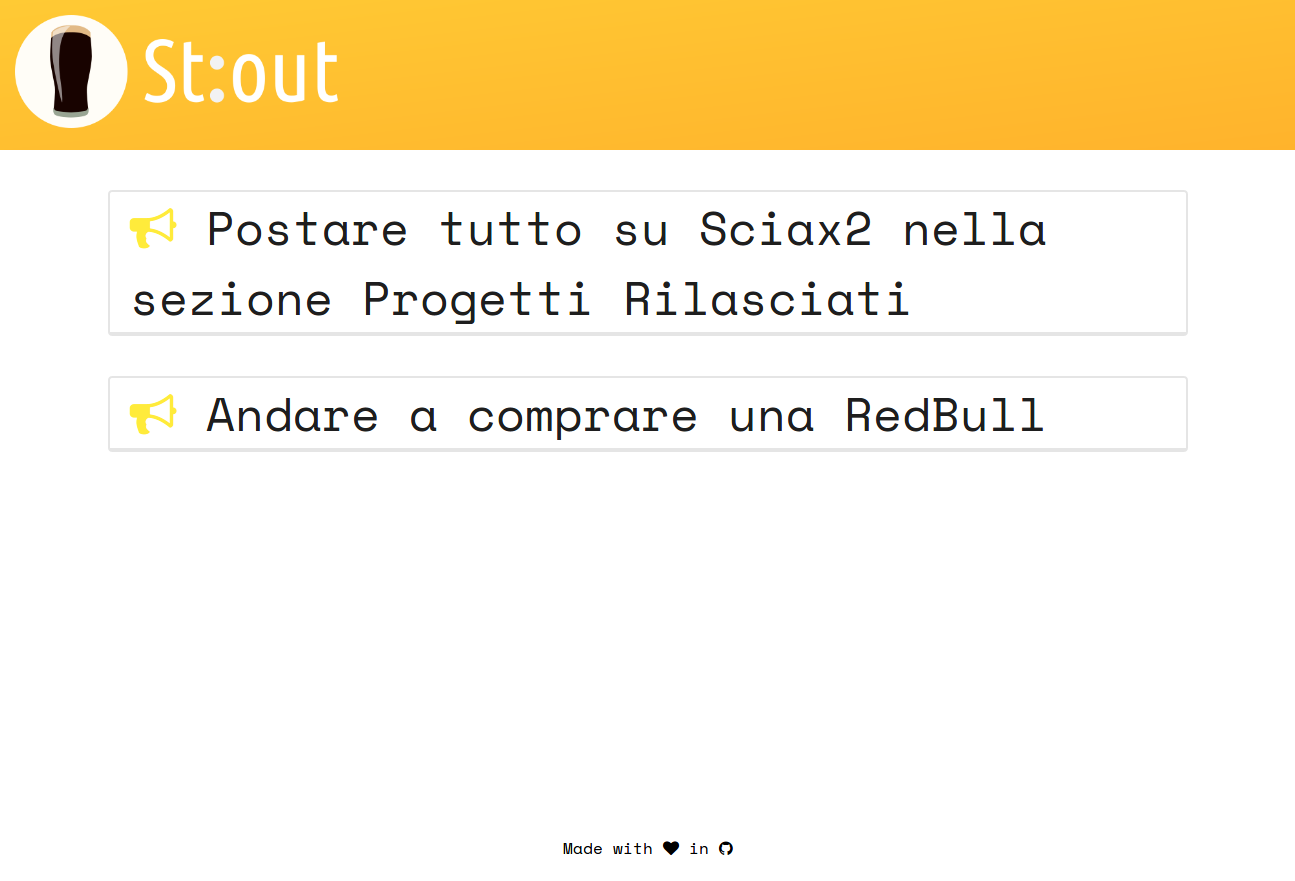
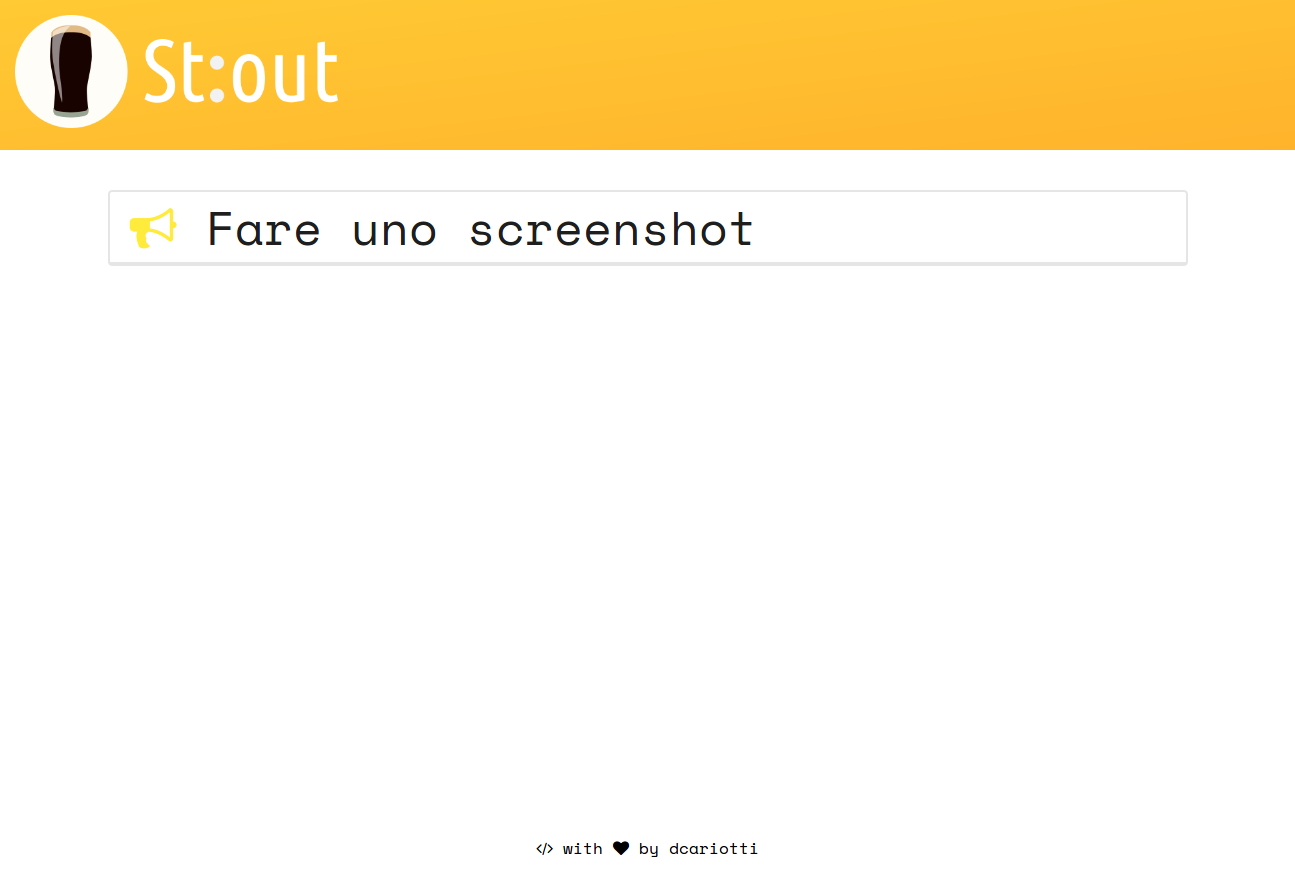
changed images

Changed region(s): [[0.0927, 0.2452, 0.9266, 0.3984], [0.0927, 0.4291, 0.9266, 0.521], [0.4324, 0.9501, 0.5869, 0.9807]]

diff --git a/lib/templates/index.html b/lib/templates/index.html
@@ -89,6 +89,6 @@
         {% endfor %}
     </section>
     <footer>
-        <p>Made with <i class="fa fa-heart"></i> on <a class="fa fa-github" href="https://github.com/dcariotti/Stout"></a></p>
+        <p><i class="fa fa-code"></i> with <i class="fa fa-heart"></i> by <a href="https://github.com/dcariotti/Stout">dcariotti</a></p>
     </footer>
 </body>
